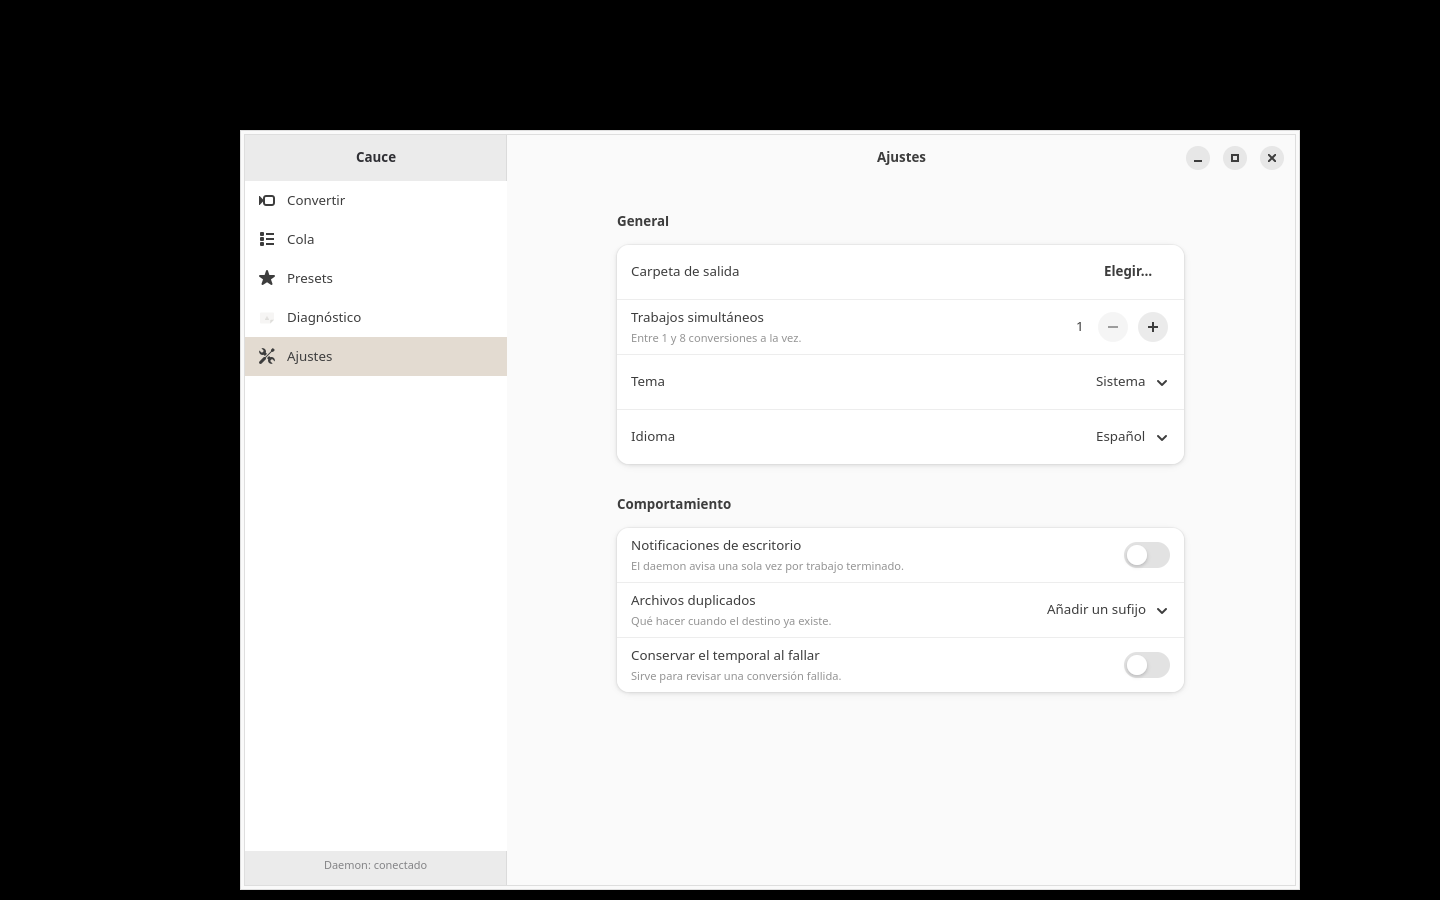
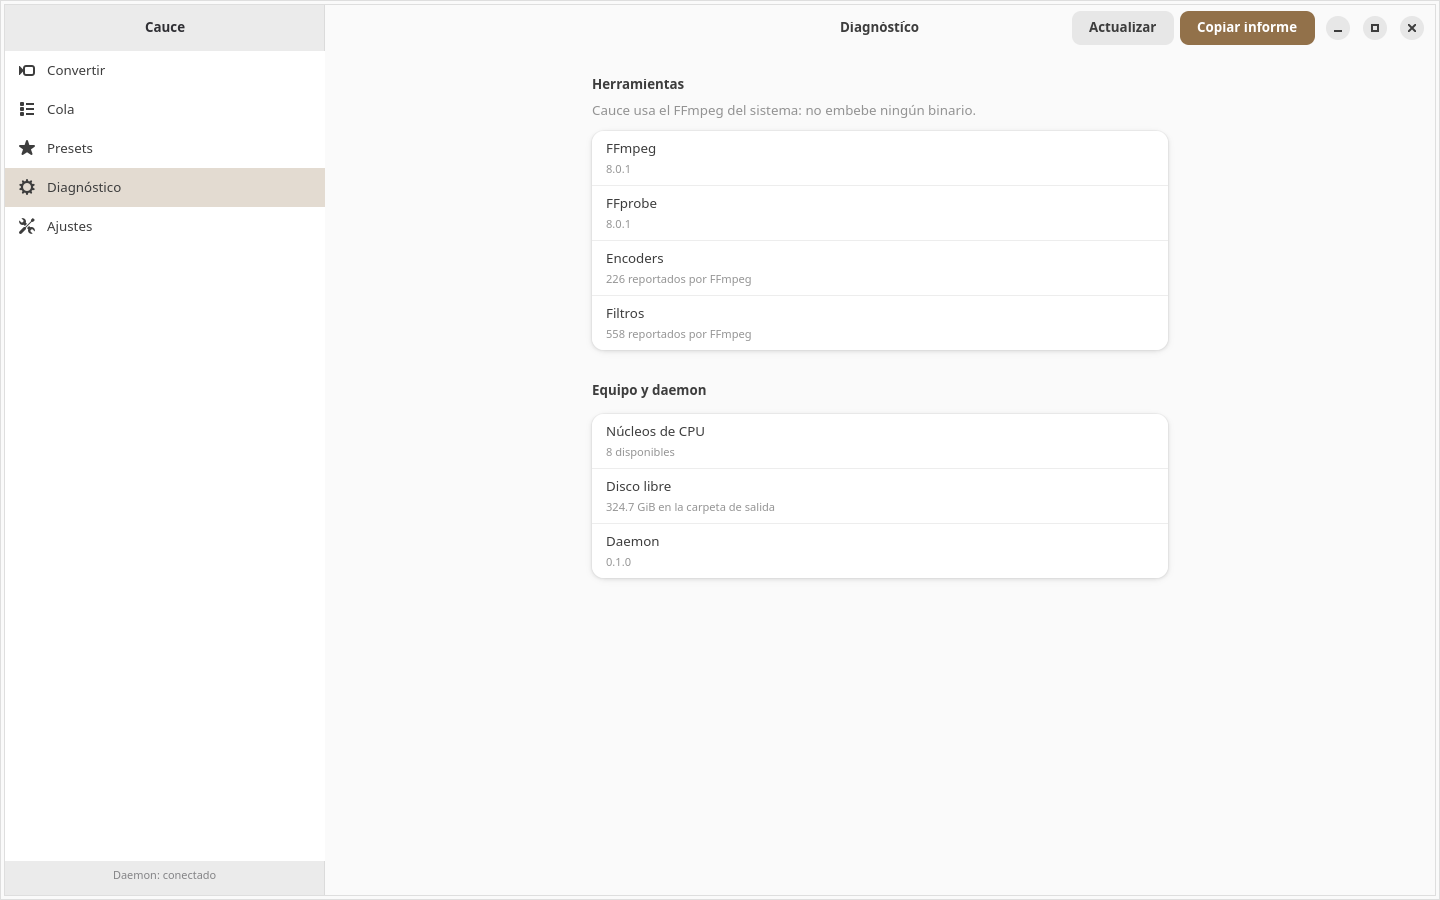
docs(qa): fix the evidence set and prove the cta at 960

diff --git a/odd/tasks/cauce-0.1.md b/odd/tasks/cauce-0.1.md
@@ -667,3 +667,13 @@ Copiados de `architecture.md` §19 y `ui-mvp.md` §170-179; se marcan solo con e
 - **Invalidado y no commiteado**: `04-ajustes` salió byte-casi-idéntico a `03-presets` (112 353 vs 112 350) y `05-diagnostico` repitió el tamaño de la corrida anterior; ninguno prueba su sección. Se conservan las versiones previas de ambas, marcadas como anteriores a las correcciones.
 - **Drag & drop descartado**: `xdotool` no puede iniciar un XDND desde un gestor de archivos que no está corriendo; sin una ventana origen no hay arrastre posible. "Convertir con archivo" queda sin evidencia visual.
 - Nota sobre el arreglo 3: la base persiste `percent=96` para el trabajo completado, pero la **vista** debe pintar 100 % y "Completada"; la captura de Cola es la que debe confirmarlo y no se midió el píxel por presupuesto de contexto.
+
+**L47 (corrección de evidencia y cierre del QA visual) — pasada final:**
+- **Error de evidencia detectado por el usuario y corregido**: `06-convertir-960.png` mostraba **Diagnóstico**, no Convertir. No se acepta como prueba de la CTA.
+- Renombrada esa captura a **`05-diagnostico-960.png`** y usada como evidencia válida de Diagnóstico a 960×640; se retiró la `05-diagnostico.png` de 1440 anterior a las correcciones.
+- **`06-convertir-960.png` nueva y verificada visualmente**: título "Convertir", drop zone, Destino, Preset y **CTA "Añadir a la cola" visible** a 960×640 con el plan en una línea. Esto cierra el defecto crítico 1.
+- **`04-ajustes.png` nueva a 1440×900**, capturada partiendo de Diagnóstico con geometría medida y `cmp -s` de verificación; no se abrió ningún `GtkFileDialog`.
+- Todas las capturas con `-draw_mouse 0`: el punto junto a "Cola" era el puntero X, queda eliminado.
+- Set final en `odd/screenshots/`: `01-convertir` (1440), `02-cola` (1440, trabajo real), `03-presets` (1440), `04-ajustes` (1440), `05-diagnostico-960` (960), `06-convertir-960` (960, CTA visible).
+- **Faltante documentado**: Convertir **con archivo** sigue sin evidencia (DnD imposible con `xdotool` sin ventana origen; el `GtkFileDialog` no cierra bajo Xvfb).
+- **Defectos visuales que persisten** (bajo riesgo, no corregidos en esta pasada): preset truncado a 960 ("Smart TV — Máxima Co…") aunque con tooltip; en la captura de 960 se ve una franja de 2-3 px del encabezado anterior en el borde superior (resto de frame, no reproducible en código).
